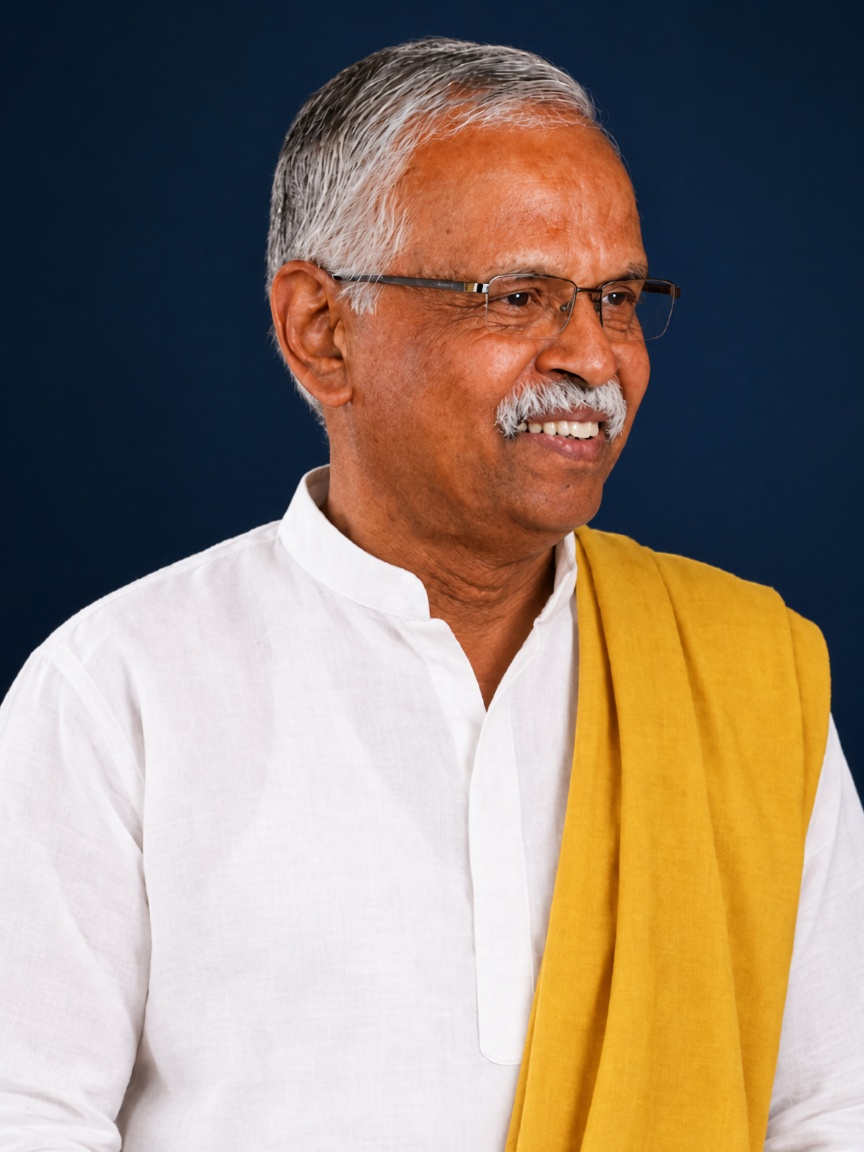
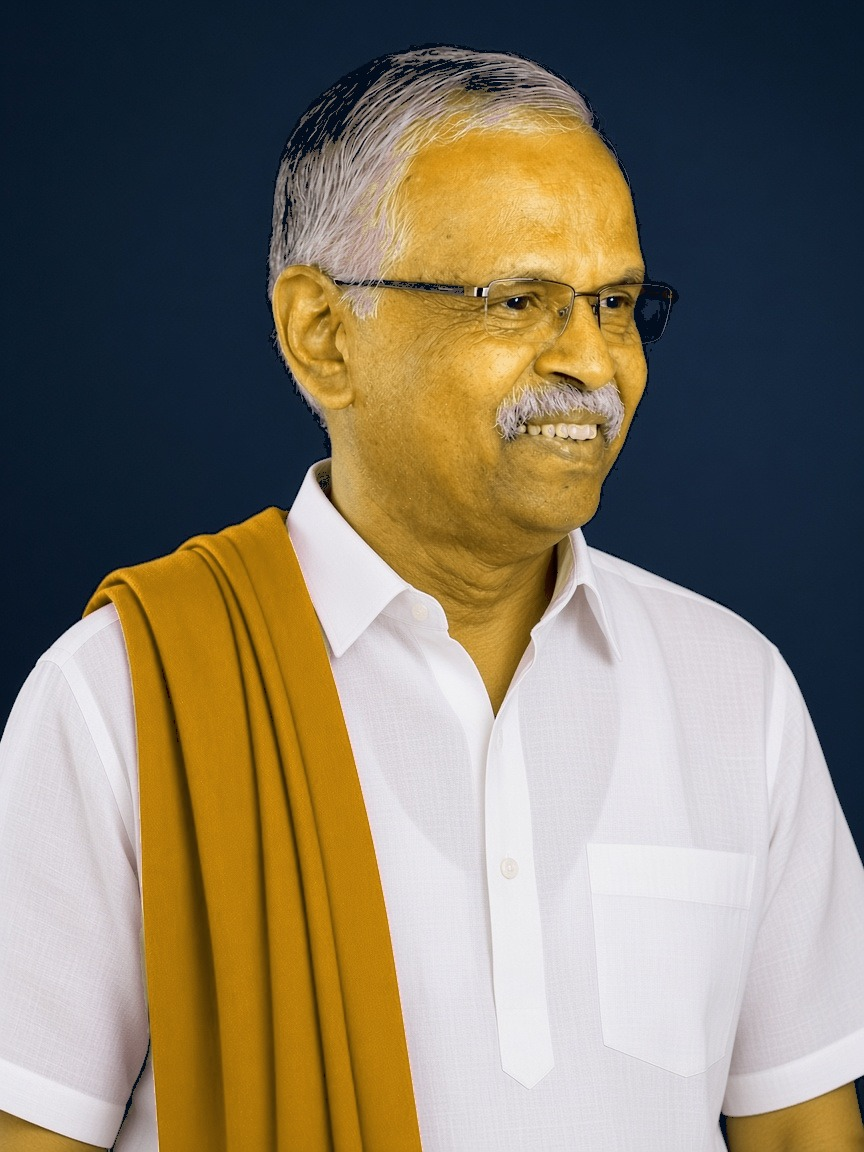
All founders: white kurta with yellow thundu uniform portraits
Regenerate founder and secretary uniform images from professional
sources so all four match costume and stay visually distinct.

diff --git a/src/config/images.js b/src/config/images.js
@@ -61,14 +61,13 @@ const catalog = {
   trustee2: [`${V}/trustee-selvin.png`],
   trustee3: [`${V}/trustee-balasubramanian.png`],
   trustee4: [`${V}/trustee-sureash.jpg`],
-  // Founder & secretary: professional portraits (uniform pair looked like the same person).
-  portraitFounder: [`${V}/trustee-gnana-rishi-professional.jpg`, `${V}/trustee-gnana-rishi.jpg`],
+  portraitFounder: [`${V}/trustee-gnana-rishi-uniform.jpg`, `${V}/trustee-gnana-rishi-professional.jpg`],
   portraitPresident: [`${V}/trustee-selvin-uniform.jpg`, `${V}/trustee-selvin-professional.jpg`],
-  portraitSecretary: [`${V}/trustee-balasubramanian-professional.jpg`, `${V}/trustee-balasubramanian.png`],
+  portraitSecretary: [`${V}/trustee-balasubramanian-uniform.jpg`, `${V}/trustee-balasubramanian-professional.jpg`],
   portraitTreasurer: [`${V}/trustee-sureash-uniform.jpg`, `${V}/trustee-sureash-professional.jpg`],
-  trustee1Pro: [`${V}/trustee-gnana-rishi-professional.jpg`],
+  trustee1Pro: [`${V}/trustee-gnana-rishi-uniform.jpg`],
   trustee2Pro: [`${V}/trustee-selvin-uniform.jpg`],
-  trustee3Pro: [`${V}/trustee-balasubramanian-professional.jpg`],
+  trustee3Pro: [`${V}/trustee-balasubramanian-uniform.jpg`],
   trustee4Pro: [`${V}/trustee-sureash-uniform.jpg`],
   blog1: [`${V}/blog-1.jpg`],
   blog2: [`${V}/blog-2.jpg`],
@@ -115,7 +114,7 @@ const catalog = {
   sidebarPost3: [`${V}/sidebar-post-3.jpg`],
 };
 
-const VETHAM_ASSET_VERSION = 'founders-distinct-v4';
+const VETHAM_ASSET_VERSION = 'founders-yellow-uniform-v5';
 
 export function img(key) {
   const entry = catalog[key];
